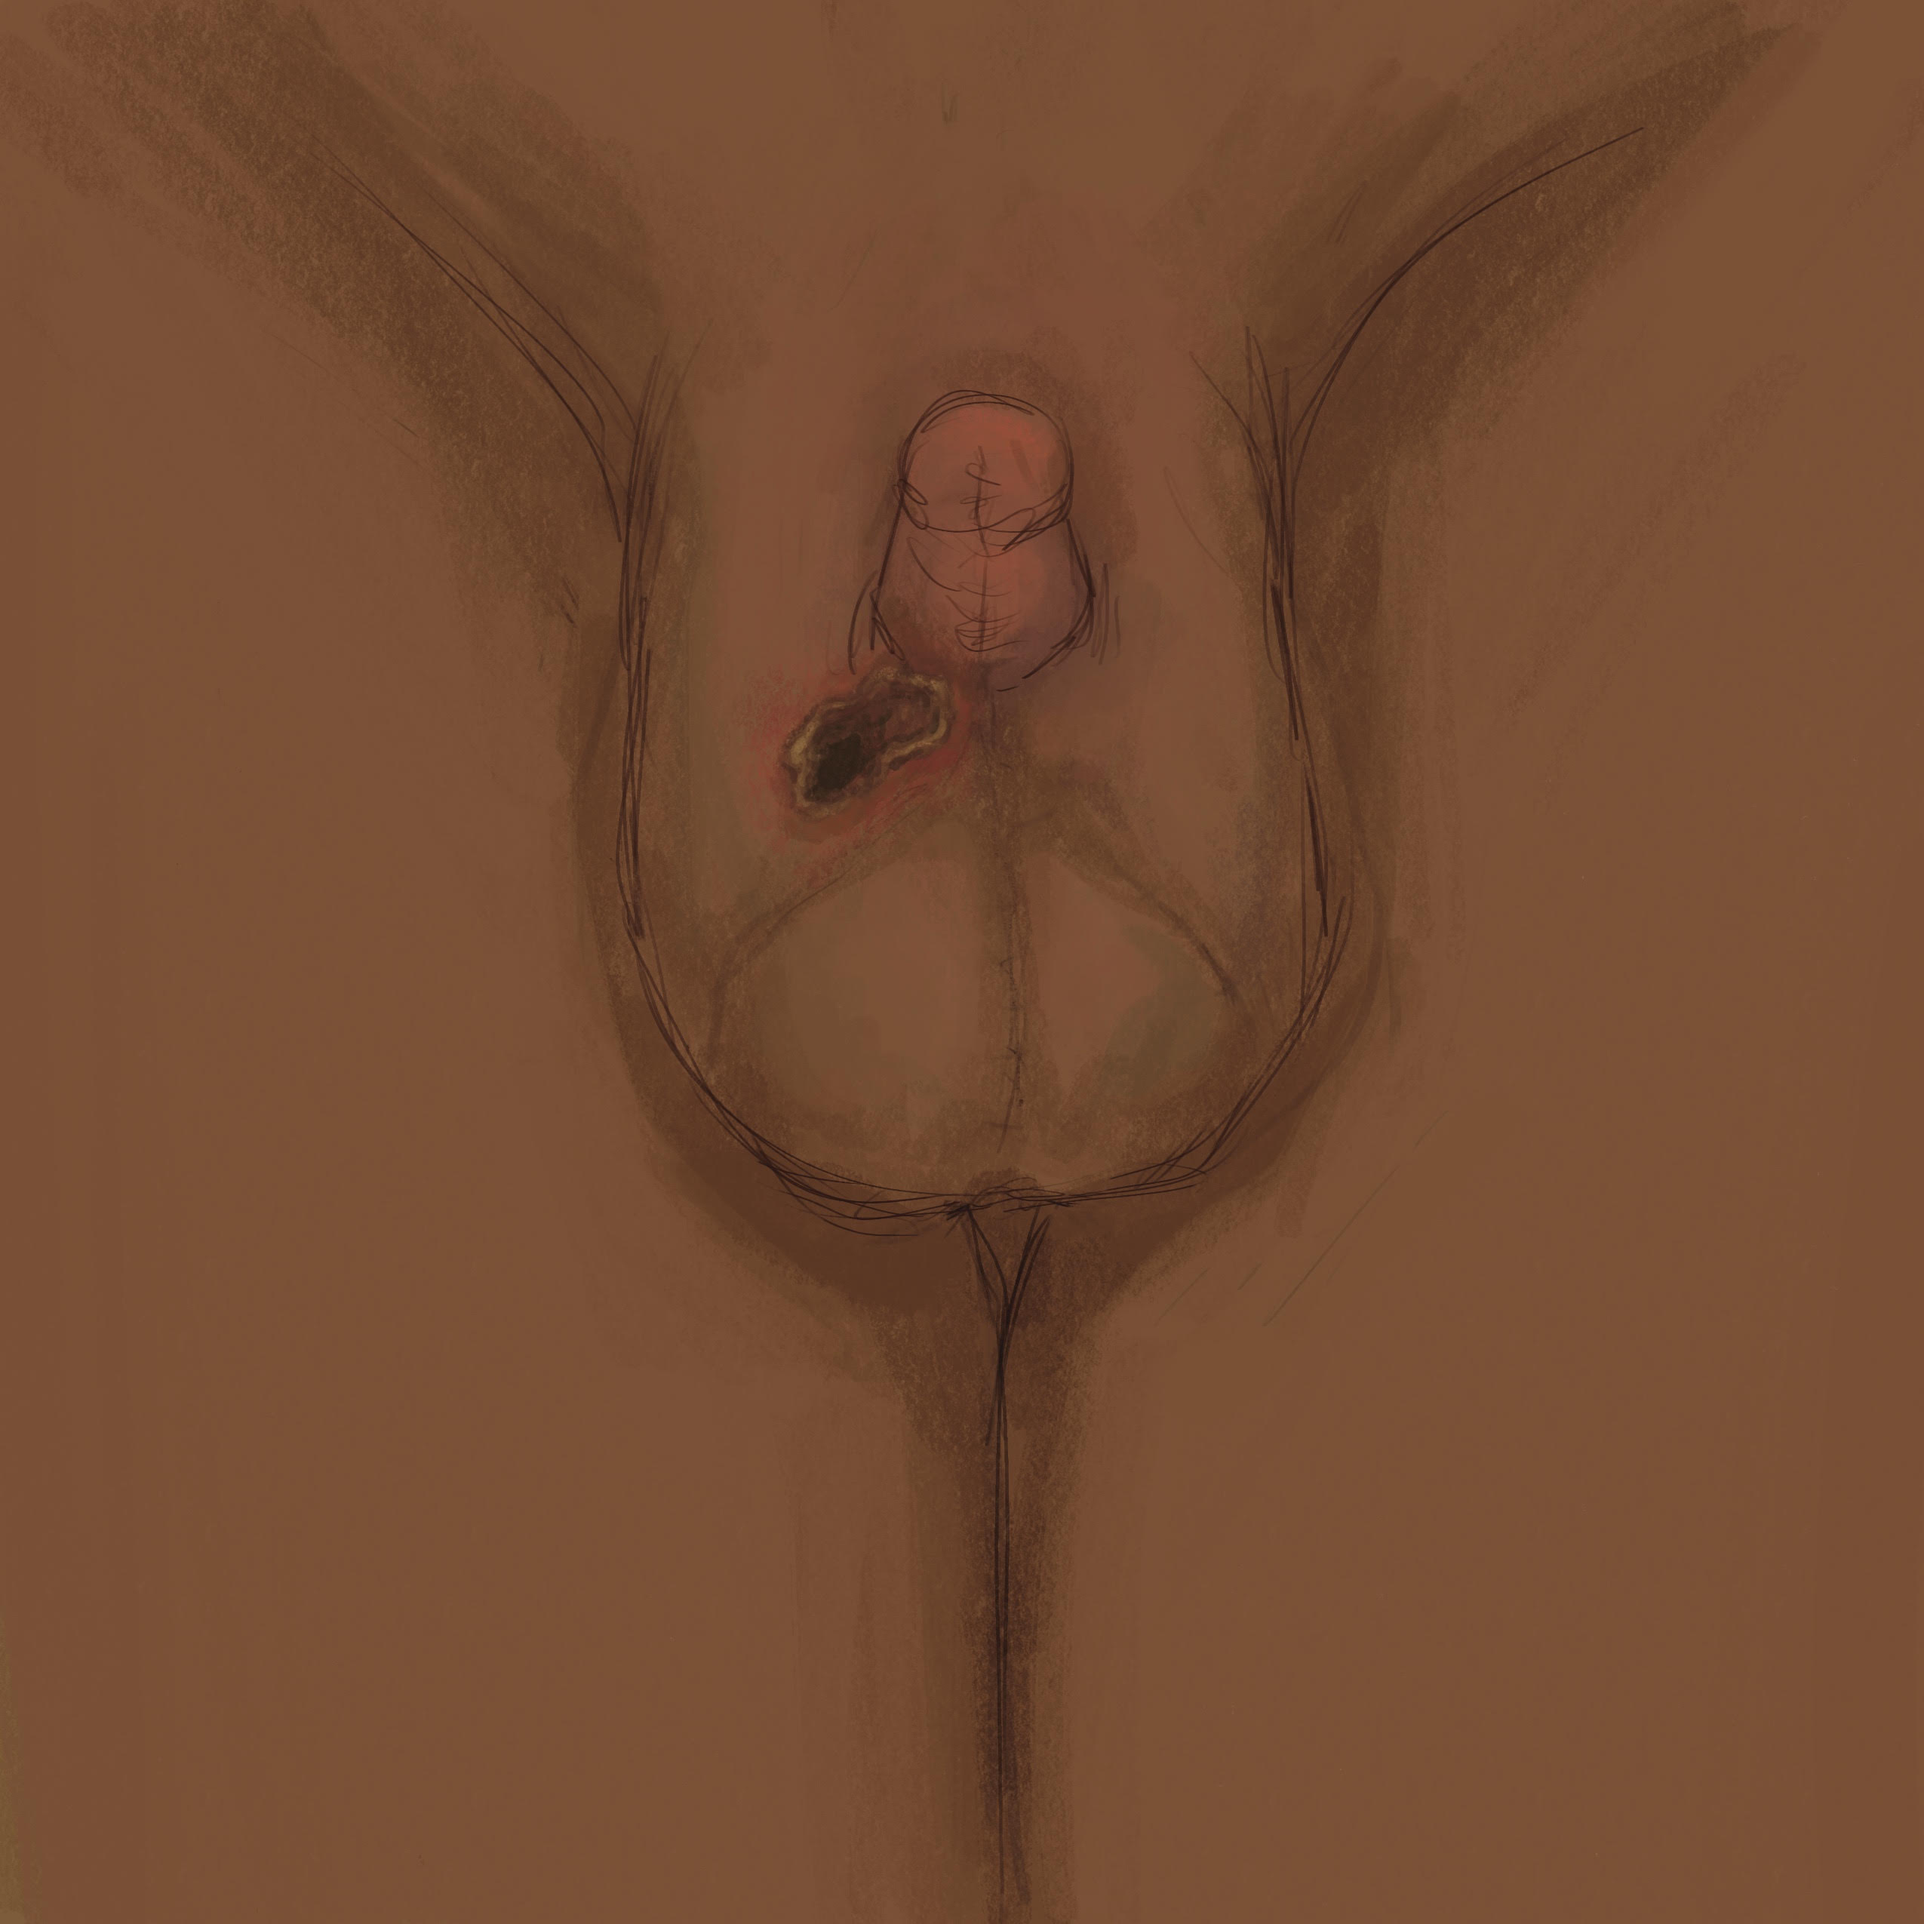
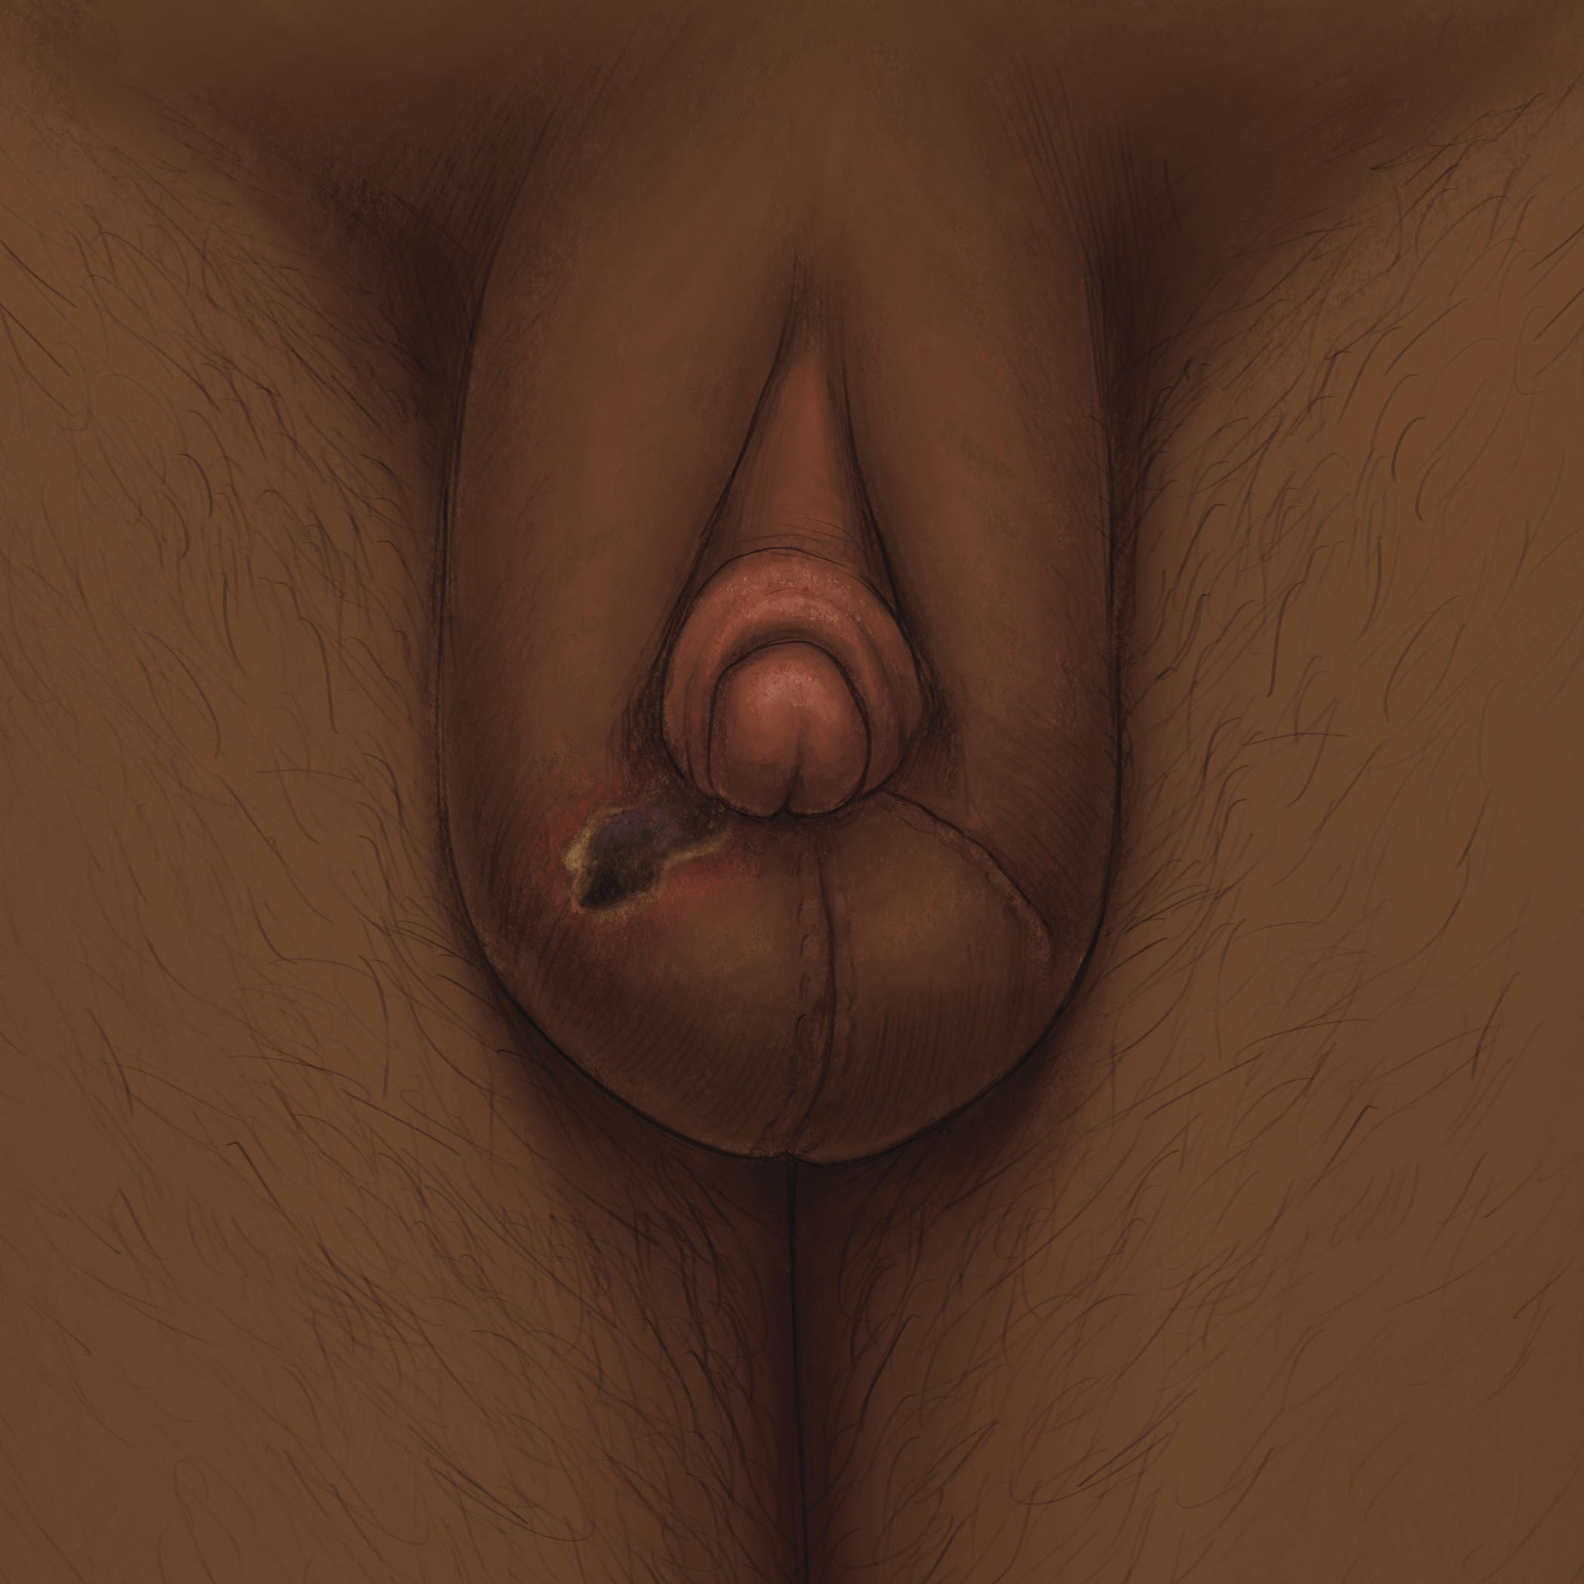
image updates

diff --git a/pages/components/menu.html b/pages/components/menu.html
@@ -42,6 +42,7 @@
         <a href="/pages/5. Related-Surgeries.html">Related Surgeries</a>
         <a href="/pages/6. Glossary.html">Glossary</a>
         <a href="/pages/7. More-Resources.html">More Resources</a>
+        <a>&ZeroWidthSpace;</a>
     </div>
 
     <div class="top-stuff">

diff --git a/pages/components/styles_components.css b/pages/components/styles_components.css
@@ -294,7 +294,7 @@ body {
 }
 
 .sidenav {
-    height: calc(90vh - var(--sticky-header-offset));
+    height: calc(100vh - var(--sticky-header-offset));
     width: var(--desktop-menu-width);
     position: fixed;
     /* HEAD
